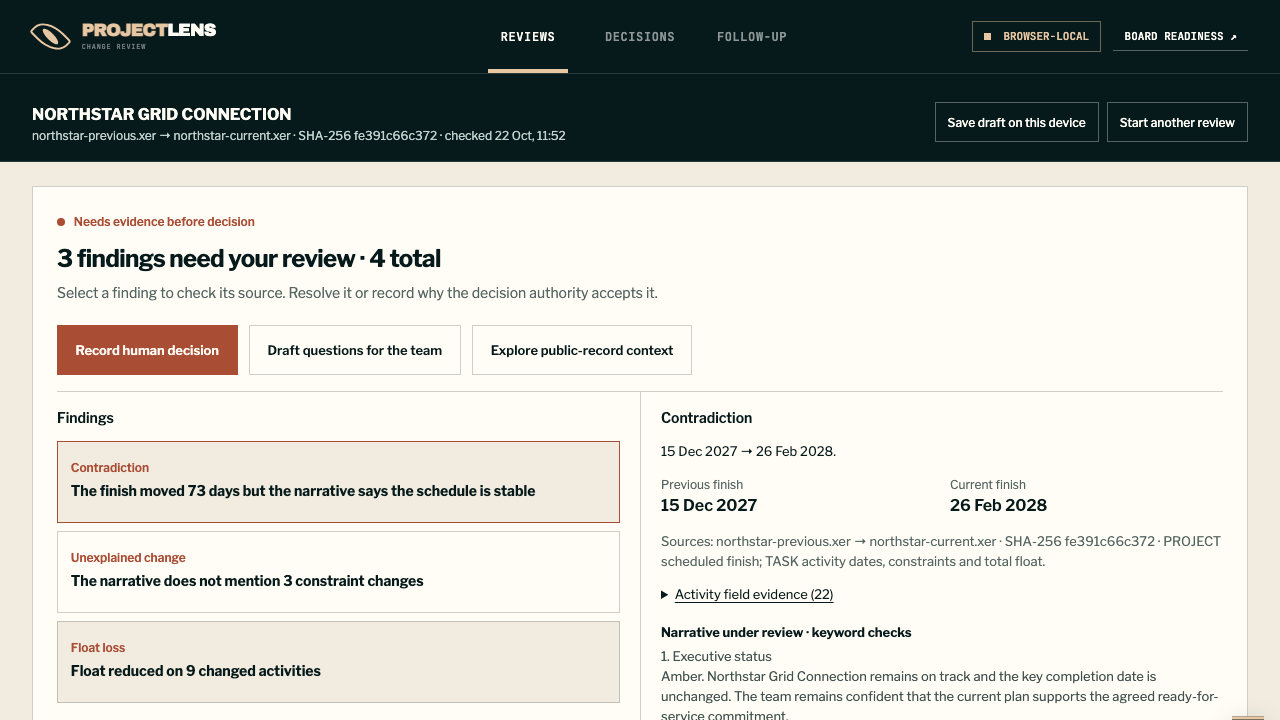
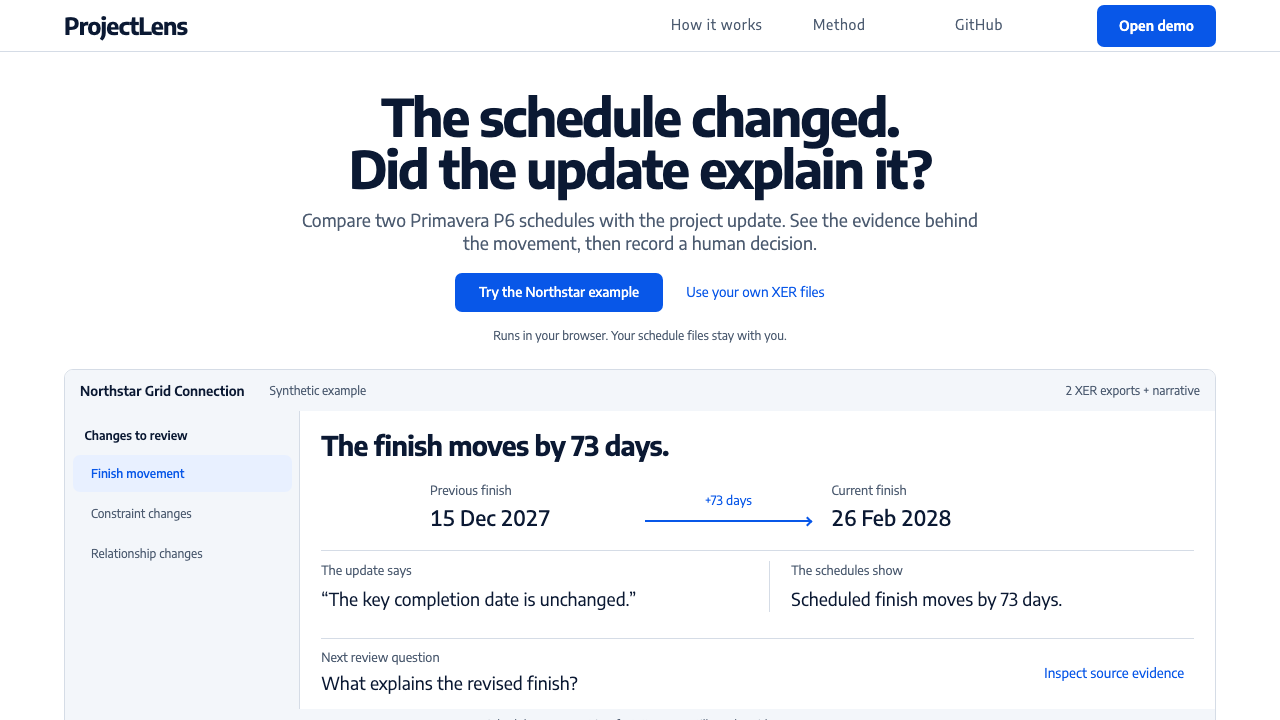
feat: showcase the ProjectLens product and redesign (#34)

diff --git a/store/work/projectlens/index.html b/store/work/projectlens/index.html
@@ -13,7 +13,7 @@
     <meta property="og:description" content="A browser-local evidence desk that checks a change narrative against two schedules and preserves the human decision." />
     <meta property="og:url" content="https://matthewpaver.github.io/work/projectlens/" />
     <meta property="og:type" content="article" />
-    <meta property="og:image" content="https://matthewpaver.github.io/assets/flagships/projectlens-after.png" />
+    <meta property="og:image" content="https://matthewpaver.github.io/assets/flagships/projectlens-product-after.png" />
     <meta name="twitter:card" content="summary_large_image" />
     <link rel="icon" type="image/svg+xml" href="../../assets/favicon.svg" />
     <link rel="apple-touch-icon" href="../../assets/apple-touch-icon.svg" />
@@ -46,8 +46,8 @@
 <h1>From schedule conflict to an accountable decision</h1>
 <p class="lede">A browser-local evidence desk that checks a change narrative against two schedules and preserves the human decision.</p>
 <div class="case-actions">
+<a href="https://matthewpaver.github.io/ProjectLens/change-assurance.html">Explore ProjectLens</a>
 <a href="https://matthewpaver.github.io/ProjectLens/change-assurance.html?walkthrough=1">Take the interactive walkthrough</a>
-<a href="https://matthewpaver.github.io/ProjectLens/change-assurance.html">Try ProjectLens</a>
 <a href="https://github.com/MatthewPaver/ProjectLens">Inspect the source</a>
 </div>
 <section class="case-walkthrough" aria-label="Interactive ProjectLens walkthrough">
@@ -60,32 +60,33 @@
 <p>A change pack can describe a stable finish while its schedules show movement. A reviewer needs the original source, a clear question and an accountable decision record.</p>
 <section class="case-comparison" aria-label="ProjectLens before and after">
 <h2>Before and after</h2>
-<p>Actual captures of the same synthetic task at 1280 × 720. Open either image to inspect the full detail.</p>
+<p>Actual landing-page captures of the same synthetic Northstar example at 1280 × 720. Open either image to inspect the full detail.</p>
 <div class="comparison-pair">
 <figure>
-<a href="../../assets/flagships/projectlens-before.png">
-<img src="../../assets/flagships/projectlens-before.png" width="1280" height="720" alt="ProjectLens before the workflow update" loading="lazy">
+<a href="../../assets/flagships/projectlens-product-before.png">
+<img src="../../assets/flagships/projectlens-product-before.png" width="1280" height="720" alt="ProjectLens before the product redesign, with an oversized introduction and separate demo action" loading="lazy">
 </a>
-<figcaption>Before · existing interface</figcaption>
+<figcaption>Before · introduction hides the working evidence</figcaption>
 </figure>
 <figure>
-<a href="../../assets/flagships/projectlens-after.png">
-<img src="../../assets/flagships/projectlens-after.png" width="1280" height="720" alt="ProjectLens implemented workflow" loading="lazy">
+<a href="../../assets/flagships/projectlens-product-after.png">
+<img src="../../assets/flagships/projectlens-product-after.png" width="1280" height="720" alt="ProjectLens product landing with an interactive comparison and a clear next question" loading="lazy">
 </a>
-<figcaption>After · implemented and tested</figcaption>
+<figcaption>After · real comparison on the product landing page</figcaption>
 </figure>
 </div>
 <p class="case-source">Screenshots show the interaction change. They do not establish time saved, adoption or a measured business outcome.</p>
 </section>
 <h2>What changed</h2>
 <p>
-<strong>Before.</strong> The result repeated a finding as a large headline. Source context and decision controls sat farther down the page, and saving required Use or Ignore on all three bundled public-record examples.</p>
+<strong>Before.</strong> The introduction repeated its pitch while the working comparison required a separate action. Keyword checks could hide factual changes after a narrative edit, and “not on track” could be mistaken for a stability claim.</p>
 <p>
-<strong>After.</strong> I put the three priority findings beside their source dates, activity fields and changed predecessor links. Additional findings stay available and are saved. Supplemental public-record examples are optional, with untouched examples recorded as not reviewed.</p>
+<strong>After.</strong> The product landing demonstrates the actual comparison, with selectable finish, constraint and relationship evidence. A replay explains the finish movement, with a static reduced-motion alternative. The full review retains factual changes regardless of wording, handles local negation, and exports original and revised narratives separately. Three priority findings sit beside their source fields; all five Northstar questions remain available. Supplemental context stays optional.</p>
+<p class="case-source">Earlier workflow captures remain available: <a href="../../assets/flagships/projectlens-before.png">original workflow</a> and <a href="../../assets/flagships/projectlens-after.png">first evidence-desk iteration</a>.</p>
 <h2>Complete journey</h2>
 <ol>
 <li>Load the Northstar example or two supported XER exports and a narrative. Files are parsed in the browser.</li>
-<li>Select a finding and inspect its original fields and narrative. Ask for evidence, or record the human decision with its owner and rationale.</li>
+<li>Select a finding and inspect its original fields and narrative. Recheck a revision while preserving the first narrative. Ask for evidence, or record the human decision with its owner and rationale.</li>
 <li>For conditional approval, supply a condition, owner and due date. Export the evidence-linked record and close the follow-up when complete.</li>
 <li>Save a device draft deliberately to resume after reopening. The saved draft includes source files; delete it when finished.</li>
 </ol>

diff --git a/store/index.html b/store/index.html
@@ -112,8 +112,8 @@
               <button type="button" data-screening-tab="lakehouse" aria-pressed="false">ML Lakehouse</button>
             </div>
             <div class="screening-panel" data-screening-panel="projectlens">
-              <a class="screening-media" href="./preview.html?app=projectlens"><img src="./assets/projectlens-questions.png" width="1280" height="720" alt="ProjectLens questions generated from the synthetic Northstar schedule comparison, with evidence, owner and due-date fields" fetchpriority="high" /></a>
-              <div class="screening-caption"><div><strong>Does the change pack match the schedule?</strong><span>ProjectLens · Interactive review walkthrough</span></div><a href="https://matthewpaver.github.io/ProjectLens/change-assurance.html?walkthrough=1">Take the walkthrough <svg class="action-arrow" viewBox="0 0 24 24" aria-hidden="true"><path d="M7 17 17 7M7 7h10v10" /></svg></a></div>
+              <a class="screening-media" href="./preview.html?app=projectlens"><img src="./assets/projectlens-questions.png" width="1280" height="720" alt="ProjectLens product landing showing a real-engine synthetic schedule comparison and its next review question" fetchpriority="high" /></a>
+              <div class="screening-caption"><div><strong>Does the change pack match the schedule?</strong><span>ProjectLens · Interactive schedule review</span></div><a href="https://matthewpaver.github.io/ProjectLens/change-assurance.html">Open ProjectLens <svg class="action-arrow" viewBox="0 0 24 24" aria-hidden="true"><path d="M7 17 17 7M7 7h10v10" /></svg></a></div>
             </div>
             <div class="screening-panel" data-screening-panel="quicksupply" hidden>
               <div class="screening-media">
@@ -174,7 +174,7 @@
             <div class="selected-card" data-project="projectlens" id="case-projectlens" data-story-caption="Questions drawn from the sample project timetable">
               <div class="selected-card-content">
                 <span class="project-media">
-                  <img src="./assets/projectlens-questions.png" width="1280" height="720" alt="ProjectLens evidence desk with priority findings, source dates and an accountable decision action" loading="lazy" />
+                  <img src="./assets/projectlens-questions.png" width="1280" height="720" alt="ProjectLens interactive schedule comparison with the 73-day movement, source evidence and a next review question" loading="lazy" />
                 </span>
                 <div class="project-copy">
                   <div class="project-title-line">
@@ -185,7 +185,7 @@
                   <p class="project-summary">I built a review screen that puts a change request beside the dates it relies on. A reviewer can spot differences and record follow-up questions.</p>
                   <p class="project-observe"><strong>Follow a question to its source.</strong> The example uses made-up schedules, so you can explore it without uploading company files.</p>
                   <dl class="project-proof">
-                    <div><dt>Example</dt><dd>Three blockers, including a 73-day finish movement</dd></div>
+                    <div><dt>Example</dt><dd>Five review questions, including a 73-day finish movement</dd></div>
                     <div><dt>Boundary</dt><dd>Finds discrepancies, not their cause or contractual responsibility</dd></div>
                   </dl>
                   <p class="project-technology">Browser JavaScript · Python · Playwright</p>

diff --git a/store/work/index.html b/store/work/index.html
@@ -101,11 +101,11 @@
               <h3>ProjectLens</h3>
               <p class="work-access">Browser tool · no account · sample files included</p>
               <p>Check whether a project's written update agrees with its schedule, then prepare questions for the next review.</p>
-              <dl class="work-card-proof" aria-label="Example and boundary"><div><dt>Try this</dt><dd>Find three issues in the sample, including an unacknowledged 73-day finish-date movement.</dd></div><div><dt>Before using</dt><dd>Schedule differences do not prove delay causes or contractual responsibility.</dd></div></dl>
-              <a class="work-launch" href="https://matthewpaver.github.io/ProjectLens/change-assurance.html?walkthrough=1">Take the interactive walkthrough</a>
-              <a class="project-link" href="https://matthewpaver.github.io/ProjectLens/change-assurance.html">Use the full schedule review</a>
+              <dl class="work-card-proof" aria-label="Example and boundary"><div><dt>Try this</dt><dd>Inspect five review questions in the sample, including an unacknowledged 73-day finish-date movement.</dd></div><div><dt>Before using</dt><dd>Schedule differences do not prove delay causes or contractual responsibility.</dd></div></dl>
+              <a class="work-launch" href="https://matthewpaver.github.io/ProjectLens/change-assurance.html">Open product demo</a>
+              <a class="project-link" href="https://matthewpaver.github.io/ProjectLens/change-assurance.html?walkthrough=1">Take the guided walkthrough</a>
               <a class="project-link" href="../preview.html?app=projectlens">Review ProjectLens case</a>
-              <details class="work-first-steps"><summary>First steps</summary><ol><li>Select Try the Northstar example.</li><li>Inspect the three blockers and their source dates.</li><li>Use my own XER files starts your supported schedule comparison.</li></ol><p>The browser comparison works locally. Export your record to keep a copy; this is not a shared team workspace.</p></details>
+              <details class="work-first-steps"><summary>First steps</summary><ol><li>Select Try the Northstar example.</li><li>Inspect the priority findings and their source dates.</li><li>Use your own XER files starts your supported schedule comparison.</li></ol><p>The browser comparison works locally. Export your record to keep a copy; this is not a shared team workspace.</p></details>
             </div>
           </article>
 

diff --git a/tests/e2e/flagship-case-studies.spec.ts b/tests/e2e/flagship-case-studies.spec.ts
@@ -34,16 +34,17 @@ test('before-and-after evidence and demo links remain available without JavaScri
 });
 
 
-test('ProjectLens walkthrough is reachable from the homepage, case and preview without JavaScript', async ({ browser }) => {
+test('ProjectLens product landing is primary and its walkthrough stays reachable without JavaScript', async ({ browser }) => {
   const context = await browser.newContext({ javaScriptEnabled: false });
   const page = await context.newPage();
   const url = 'https://matthewpaver.github.io/ProjectLens/change-assurance.html?walkthrough=1';
   await page.goto('http://127.0.0.1:4321/');
-  await expect(page.getByRole('link', { name: 'Take the walkthrough', exact: true })).toHaveAttribute('href', url);
+  await expect(page.getByRole('link', { name: 'Open ProjectLens', exact: true })).toHaveAttribute('href', 'https://matthewpaver.github.io/ProjectLens/change-assurance.html');
   await page.goto('http://127.0.0.1:4321/work/projectlens/');
   await expect(page.getByRole('link', { name: 'Take the interactive walkthrough', exact: true })).toHaveAttribute('href', url);
-  await expect(page.getByRole('link', { name: 'Try ProjectLens', exact: true })).toHaveAttribute('href', 'https://matthewpaver.github.io/ProjectLens/change-assurance.html');
+  await expect(page.getByRole('link', { name: 'Explore ProjectLens', exact: true })).toHaveAttribute('href', 'https://matthewpaver.github.io/ProjectLens/change-assurance.html');
   const data = await (await page.request.get('http://127.0.0.1:4321/previews.json')).json();
-  expect(data.projectlens.links.find((link: {primary?: boolean}) => link.primary).href).toBe(url);
+  expect(data.projectlens.links.find((link: {primary?: boolean}) => link.primary).href).toBe('https://matthewpaver.github.io/ProjectLens/change-assurance.html');
+  expect(data.projectlens.links.some((link: {href:string}) => link.href === url)).toBe(true);
   await context.close();
 });

diff --git a/tests/e2e/catalogue-first-use.spec.ts b/tests/e2e/catalogue-first-use.spec.ts
@@ -3,7 +3,7 @@ import { expect, test } from '@playwright/test';
 test('catalogue offers direct first actions and honest setup requirements', async ({ page }) => {
   await page.goto('/work/');
   const actions = {
-    projectlens: ['Take the interactive walkthrough', 'https://matthewpaver.github.io/ProjectLens/change-assurance.html?walkthrough=1'],
+    projectlens: ['Open product demo', 'https://matthewpaver.github.io/ProjectLens/change-assurance.html'],
     winchester: ['Try the shortlist', 'https://matthewpaver.github.io/winchester-buyer-check/'],
     lakehouse: ['Explore sample data', 'https://matthewpaver.github.io/marketing-ml-lakehouse/#quality'],
   };
@@ -12,7 +12,7 @@ test('catalogue offers direct first actions and honest setup requirements', asyn
     await expect(card.getByRole('link', {name, exact:true})).toHaveAttribute('href',href);
     await expect(card.locator('.work-access')).toContainText('Browser');
   }
-  await expect(page.locator('[data-slug="projectlens"]').getByRole('link', {name:'Use the full schedule review',exact:true})).toHaveAttribute('href','https://matthewpaver.github.io/ProjectLens/change-assurance.html');
+  await expect(page.locator('[data-slug="projectlens"]').getByRole('link', {name:'Take the guided walkthrough',exact:true})).toHaveAttribute('href','https://matthewpaver.github.io/ProjectLens/change-assurance.html?walkthrough=1');
   await expect(page.locator('[data-slug="policylens"] .work-access')).toContainText('Node.js');
   await expect(page.locator('[data-slug="quicksupply"] .work-access')).toContainText('Recorded case study');
   await expect(page.locator('[data-slug="hr"] .work-access')).toContainText('Power BI Desktop');

diff --git a/tests/e2e/store.spec.ts b/tests/e2e/store.spec.ts
@@ -103,7 +103,7 @@ test("selected work exposes a result, boundary and case route", async ({ page })
 
   const project = page.locator('[data-project="projectlens"]');
   await page.getByRole('tab', {name:'ProjectLens',exact:true}).click();
-  await expect(project.getByText(/three blockers, including a 73-day finish movement/i)).toBeVisible();
+  await expect(project.getByText(/five review questions, including a 73-day finish movement/i)).toBeVisible();
   await expect(project.getByRole("link", {name:"Review ProjectLens case", exact:true})).toHaveAttribute(
     "href",
     "./preview.html?app=projectlens",
